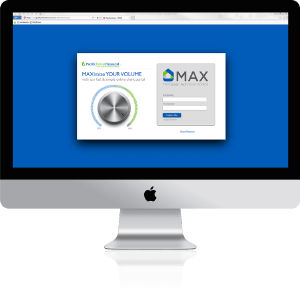
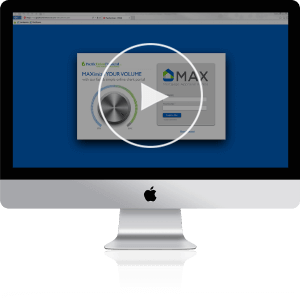
made video-overlay fixed on mobile, added button to play MAX video

diff --git a/app/scripts/main.js b/app/scripts/main.js
@@ -79,7 +79,7 @@ $(function() {
             controlArrows: true,
             verticalCentered: true,
            
-            fixedElements: '.nav-wrapper, .menu, .form-contact, .logo-wrapper',
+            fixedElements: '.nav-wrapper, .menu, .form-contact, .logo-wrapper, .video-overlay',
             responsiveWidth: 768,
             responsiveHeight: 0,
             responsiveSlides: false,
@@ -158,6 +158,7 @@ $(function() {
 
               
                 $('video').get(0).play();
+                $('video').get(1).pause();
 
 
                 $('#contact-button, .nav-contact').click(function(){
@@ -181,6 +182,13 @@ $(function() {
                     if(!$('#video-sec-3').hasClass('active')){
                         $('video').get(1).pause();
                     }
+                });
+
+                $('.close-video').click(function(){
+                    $('video').get(0).pause();
+                    $('video').get(1).pause();
+                    $('video').get(2).pause();
+                    $('.video-overlay').removeClass('active');
                 });
             }
       

diff --git a/app/index.html b/app/index.html
@@ -181,7 +181,7 @@
             <div class="section third-sec" id="sec-3">
                 <div class="img-block">
                     <img src="./images/mac-comp-play.png" alt="" class="desktop max-play">
-                    <img src="./images/mac-comp-mobile.png" alt="" class="mobile">
+                    <img src="./images/mac-comp-mobile.png" alt="" class="mobile max-play">
                 </div>
                 <div class="text-content">
                     <h2>Technology</h2>
@@ -203,6 +203,7 @@
                         <li>All documents generated can be found on a single screen, including Underwriting Approval letters</li>
                         <li>Built in closing fee templates save time and help to ensure accurate disclosures</li>
                     </ul>
+                    <p>Watch the video to learn more about MAX.</p>
                     
                 </div>
                 

diff --git a/app/styles/modules/_video-overlay.sass b/app/styles/modules/_video-overlay.sass
@@ -8,7 +8,7 @@
 	z-index: -100
 	opacity: 0
 	transition: all 300ms ease-in 
-	display: block
+	
 
 	.close-video
 		left: 2%
@@ -48,13 +48,12 @@
 		left: 0
 		opacity: 0 
 		transform: scale(0.5)
-		z-index: 101
 		transition: all 500ms ease-in 400ms
 	&.active
 		opacity: 1
 		transform: scale(1)
 		z-index: 100
-		// display: block
+		display: block
 		video
 			opacity: 1
 			transform: scale(1)
@@ -115,7 +114,15 @@
 			opacity: 0 
 			transform: scale(0.5)
 			transition: all 500ms ease-in 400ms
-		
+		&.active
+			opacity: 1
+			transform: scale(1)
+			z-index: 100
+			
+			video
+				opacity: 1
+				transform: scale(1)
+				
 			
 					
 					

diff --git a/app/styles/sections/_third-sec.sass b/app/styles/sections/_third-sec.sass
@@ -86,7 +86,7 @@
 			margin-top: 0
 			img
 				// position: absolute
-				margin-top: 17%
+				margin-top: 25%
 				height: 80%
 				width: auto
 		
